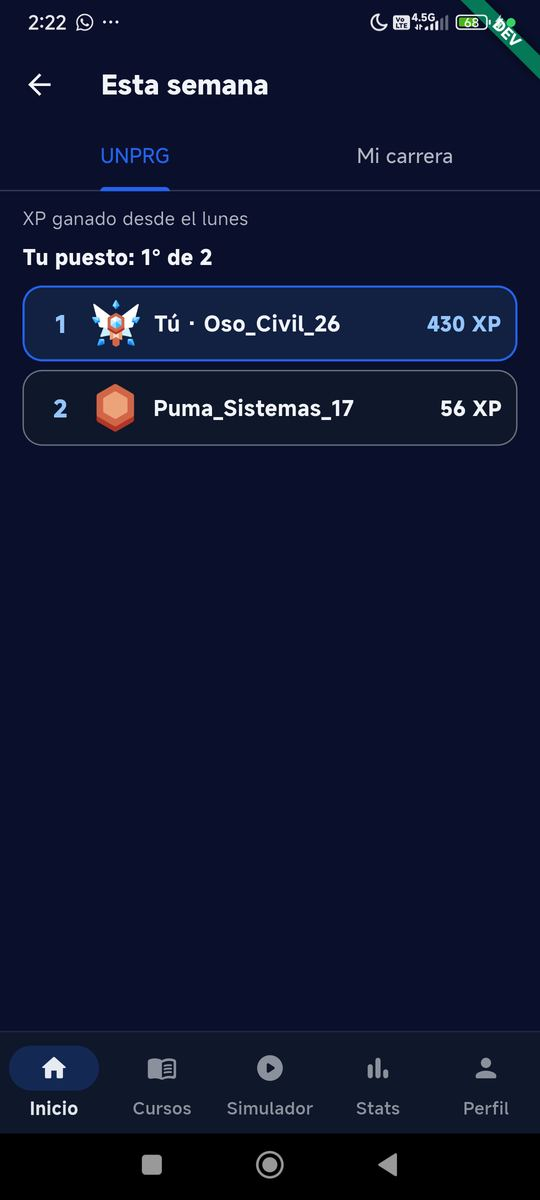
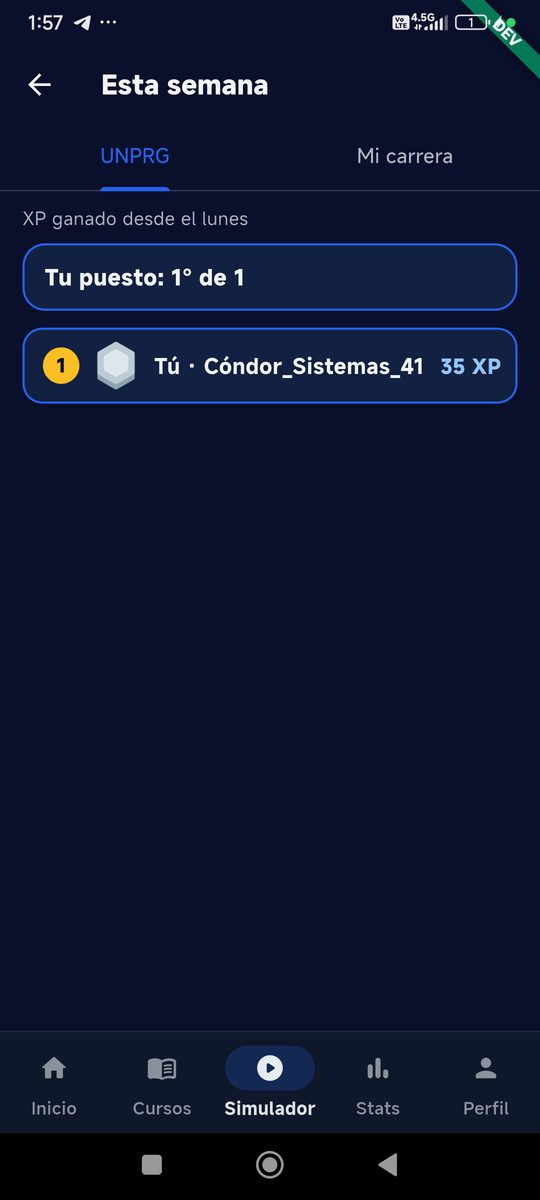
Guías: Rankings renovado con capturas reales

diff --git a/docs/guias/guia_app.html b/docs/guias/guia_app.html
@@ -849,8 +849,10 @@ flowchart LR
 </div>
 
 <div class="screen two" id="xp-rankings">
-  <figure><img src="img/rk-mi-liga.jpg" alt="Mi liga"><figcaption>Aspirante, 1° de 1, reto hecho.</figcaption></figure>
-  <figure><img src="img/rk-esta-semana.jpg" alt="Esta semana"><figcaption>«Esta semana» en la UNPRG.</figcaption></figure>
+  <figure><img src="img/rk-mi-liga.jpg" alt="Mi liga"><figcaption>Mi liga: el búho de Aspirante, 1° de 1 y en zona de subida (TEST, 28-oct-2026).</figcaption></figure>
+  <figure><img src="img/rk-reto-hoy.jpg" alt="Reto de hoy sin jugar"><figcaption>Reto de hoy, aún sin jugar.</figcaption></figure>
+  <figure><img src="img/rk-como-funciona.jpg" alt="Cómo funciona la liga"><figcaption>ⓘ «Cómo funciona la liga».</figcaption></figure>
+  <figure><img src="img/rk-esta-semana.jpg" alt="Esta semana"><figcaption>«Esta semana» en la UNPRG, con tu puesto arriba.</figcaption></figure>
   <div class="body">
 <h3>Rankings: «Mi liga» y «Reto de hoy»</h3>
 <p>Rankings tiene dos pestañas arriba, <b>«Mi liga» | «Reto de hoy»</b> (la segunda solo con el reto encendido <span class="chip info">ADMIN</span>; un punto ámbar avisa que hoy no lo jugaste). Se abre desde el atajo «Rankings» del Inicio (con el búho de tu etapa y su nombre), la tarjeta del Perfil, la tarjeta del reto del Simulador y el resultado del reto (estas dos abren «Reto de hoy»). La barra de abajo marca la pestaña desde la que entraste. Arriba: ⓘ abre «Cómo funciona la liga» y el escudo, tu nombre de usuario.</p>
@@ -879,7 +881,7 @@ flowchart LR
   <figure><img src="img/rk-reto-simulador.jpg" alt="Reto en el Simulador"><figcaption>Tarjeta en el Inicio del Simulador.</figcaption></figure>
   <figure><img src="img/rk-reto-intro.jpg" alt="Intro del reto"><figcaption>Intro con las reglas del reto.</figcaption></figure>
   <figure><img src="img/rk-reto-resultado.jpg" alt="Resultado del reto"><figcaption>Resultado: sin respuestas hasta mañana.</figcaption></figure>
-  <figure><img src="img/rk-reto-tabla.jpg" alt="Tabla del reto"><figcaption>Tabla del día: UNPRG / Mi carrera.</figcaption></figure>
+  <figure><img src="img/rk-reto-tabla.jpg" alt="Tabla del reto"><figcaption>Reto de hoy ya jugado: tu puesto y la tabla (UNPRG / Mi carrera).</figcaption></figure>
   <div class="body">
 <h3>Reto del día</h3>
 <p>Un mini examen diario de 10 preguntas <span class="chip info">ADMIN</span> <b>iguales para toda tu universidad</b>, con 15 min <span class="chip info">ADMIN</span> y <b>un solo intento</b>. Aparece en Rankings y en el Inicio del Simulador (solo con los rankings encendidos).</p>

diff --git a/PROGRESO.md b/PROGRESO.md
@@ -7,7 +7,7 @@ _Última actualización: 2026-10-28_
 > **Retomar en otra máquina:** `docs/contexto_claude/README.md` tiene el punto exacto donde quedamos (2026-10-19), las reglas de trabajo, los pendientes y una copia de la memoria de Claude.
 
 ## Estado actual
-- **Rankings renovado (2026-10-28, rama `codex/rankings-renovado`):** solo app (detalle en `../iya-app/PROGRESO.md`). Aquí: guía de la app (Rankings con pestañas, búho por etapa, reto de hoy, Esta semana, aviso del lunes; capturas pendientes) y changelog de arquitectura. Sin cambios de Functions, reglas ni configuración: usa `{config}/rankings` como está.
+- **Rankings renovado (2026-10-28, rama `codex/rankings-renovado`):** solo app (detalle en `../iya-app/PROGRESO.md`). Aquí: guía de la app (Rankings con pestañas, búho por etapa, reto de hoy, Esta semana, aviso del lunes) y changelog de arquitectura. Sin cambios de Functions, reglas ni configuración: usa `{config}/rankings` como está. **Probado en el teléfono (2026-10-28, TEST):** atajo de Inicio con el búho de Aspirante; Rankings desde Inicio marca «Inicio»; «Reto de hoy» con punto ámbar y «Sé el primero en jugar hoy»; hoja ⓘ; se jugó el reto (0/10, +35 XP) y «Ver la tabla de hoy» abrió Rankings en el reto con «1° de 1» y la barra en «Simulador»; Mi liga pasó a tener grupo («1° de 1», zona de subida, ↑); «Esta semana» con tu puesto y «Aún hay pocos de tu carrera aquí» solo en la carrera; tarjeta del Perfil con el búho. Ajuste: el círculo de color del 1.º aparece cuando no hay podio (menos de 3). Capturas reales en la guía (`rk-mi-liga`, `rk-reto-hoy`, `rk-como-funciona`, `rk-esta-semana`, `rk-reto-tabla`). El aviso del lunes solo se probó con pruebas de widget (necesita un cierre de semana real).
 - **«Tu plan de hoy» compacta (2026-10-27, rama `codex/plan-hoy-compacto`):** solo app (detalle en `../iya-app/PROGRESO.md`). Aquí: guía de la app (tabla de la tarjeta con los textos cortos, sin la fila del ritmo, capturas `ini-plan-hoy.jpg` y `sim-inicio-plan.jpg` nuevas). Sin cambios de Functions, reglas ni configuración.
 - **Plan de estudio en el onboarding (2026-10-27, app rama `codex/onboarding-plan`):** solo app (paso 4 de 5 opcional con las preguntas de «Tu meta»; detalle en `../iya-app/PROGRESO.md`). Aquí: guía de la app (sección «En el onboarding» en Tu meta, pasos del onboarding de 4 a 5) y changelog de arquitectura. Sin cambios de Functions, reglas ni configuración: usa los valores de `{config}/simulator.plan`. **Probado en el teléfono (2026-10-27, TEST):** con la cuenta de Kevin sin perfil (respaldo del documento, `profile` quitado y datos de la app borrados), «Paso N de 5», el plan elegido se guardó en `simulatorPlan/current` (5 días, sábado, sin mes porque la UNPRG publicó la fecha), el nombre de usuario se conservó (`Cóndor_Sistemas_41`) y el Inicio abrió con «Tu plan de hoy». Faltan capturas del paso 4 y de la confirmación para las guías.
 - **Plan personalizado validado en el teléfono (2026-10-23):** fusionado (admin #121, app #137) y Functions desplegadas en TEST. En el teléfono: «Tu plan de hoy» en Inicio y Simulador, «Tu semana», «Tu meta» con la fecha publicada por la UNPRG y vista previa del ritmo (7 días → 75 %, 5 días → 51 %), y una práctica del día real: 6 preguntas de los 3 temas débiles y 4 de Razonamiento Verbal y Razonamiento Matemático (22 % del área E cada uno) más Geografía. Correcciones: espacio sin salto antes de «%» en los textos del ARB (el «75 %» se partía) y el chip del día del examen dice «tu examen es hoy» (antes «tu examen es este mes»). Guías vivas actualizadas con capturas reales (Guía v33, Arquitectura v38). Pendiente: fase 6 (otras universidades) espera los prospectos de Kevin.
